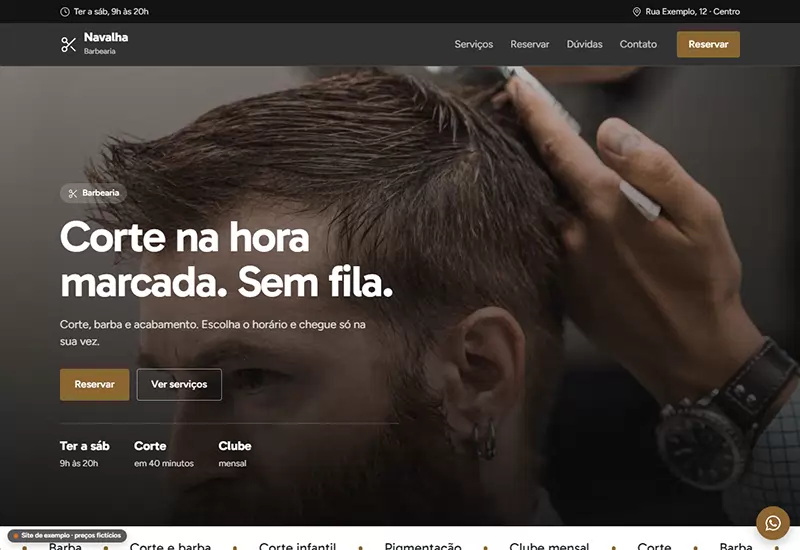
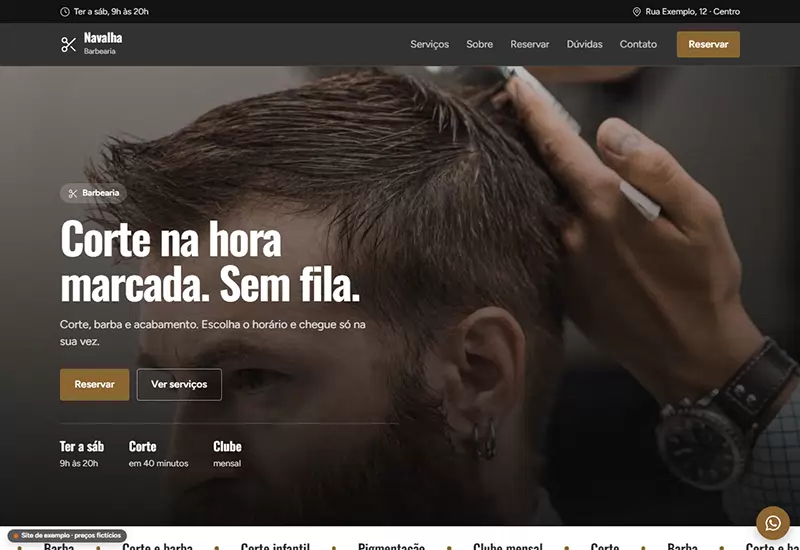
Modelos do molde, grupo beleza (salão, barbearia, estética): fonte própria e seção Sobre; prévias refeitas

diff --git a/modelos/molde/negocios.js b/modelos/molde/negocios.js
@@ -279,6 +279,12 @@ export const NEGOCIOS = {
 
   salao: {
     nome: 'Salão Flor de Lis', curto: 'Flor de Lis', tipo: 'Salão de beleza', icone: 'scissors',
+    fonte: ['Playfair Display', '500;600'],
+    sobre: {
+      titulo: 'Um salão onde você é ouvida antes da tesoura.',
+      texto: 'Antes de cortar ou colorir, a gente conversa sobre o que você quer, o seu tipo de cabelo e a sua rotina. O horário é respeitado e cada detalhe é combinado com você.',
+      pontos: ['Conversa antes de cada serviço', 'Produtos profissionais', 'Horário marcado, sem espera']
+    },
     cores: ['#A35C66', '#844852', '#F7EBEC'], layout: 'foto', serif: true,
     horario: 'Ter a sáb, 9h às 19h', endereco: 'Rua Exemplo, 45 · Centro',
     selo: 'Salão de beleza',
@@ -325,6 +331,12 @@ export const NEGOCIOS = {
 
   barbearia: {
     nome: 'Barbearia Navalha', curto: 'Navalha', tipo: 'Barbearia', icone: 'scissors',
+    fonte: ['Oswald', '500;600'],
+    sobre: {
+      titulo: 'Barbearia de bairro, com hora marcada.',
+      texto: 'Aqui você chega no horário e já senta na cadeira. Corte na tesoura ou na máquina, barba com toalha quente e acabamento na navalha, sem pressa e sem fila.',
+      pontos: ['Hora marcada pelo WhatsApp', 'Toalha quente e lâmina descartável', 'Café e ambiente climatizado']
+    },
     cores: ['#8C6531', '#6E4F26', '#F4EEE4'], layout: 'foto', reto: true, escuro: true,
     horario: 'Ter a sáb, 9h às 20h', endereco: 'Rua Exemplo, 12 · Centro',
     selo: 'Barbearia',
@@ -372,6 +384,12 @@ export const NEGOCIOS = {
 
   estetica: {
     nome: 'Essência Estética', curto: 'Essência', tipo: 'Estética', icone: 'flower-2',
+    fonte: ['Cormorant Garamond', '600;700'],
+    sobre: {
+      titulo: 'Cuidado com a pele, sem promessa milagrosa.',
+      texto: 'Todo tratamento começa por uma avaliação, para indicar só o que faz sentido para a sua pele. Cada sessão fica registrada na sua ficha, com o que foi feito e o que vem a seguir.',
+      pontos: ['Avaliação antes de qualquer tratamento', 'Materiais descartáveis e esterilizados', 'Ficha com o histórico das sessões']
+    },
     cores: ['#86694C', '#6B533B', '#F5EFE8'], layout: 'cartao', serif: true,
     horario: 'Seg a sáb, 9h às 19h', endereco: 'Rua Exemplo, 150 · Centro',
     selo: 'Estética facial e corporal',
